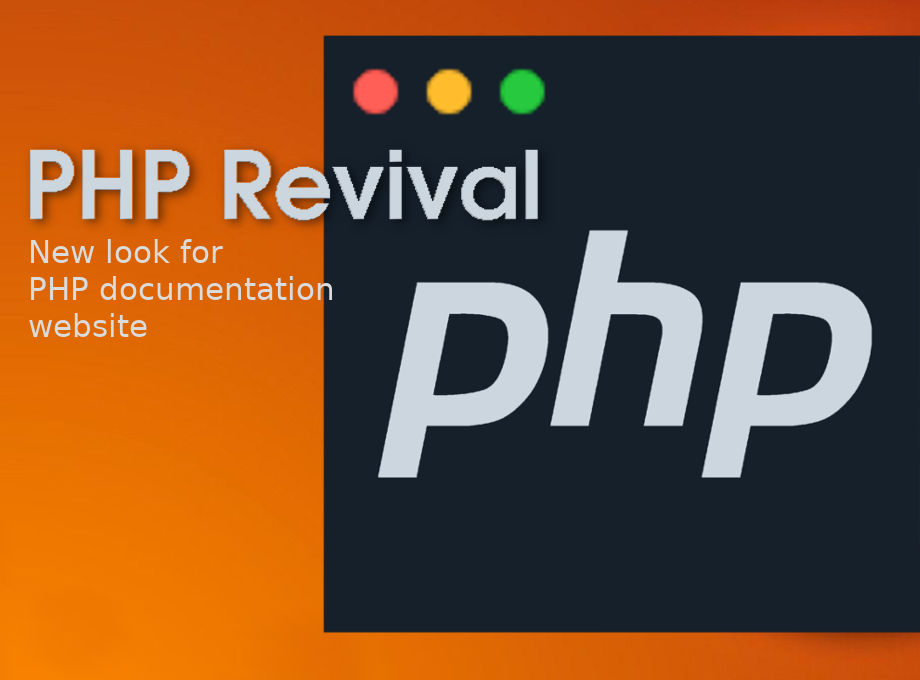
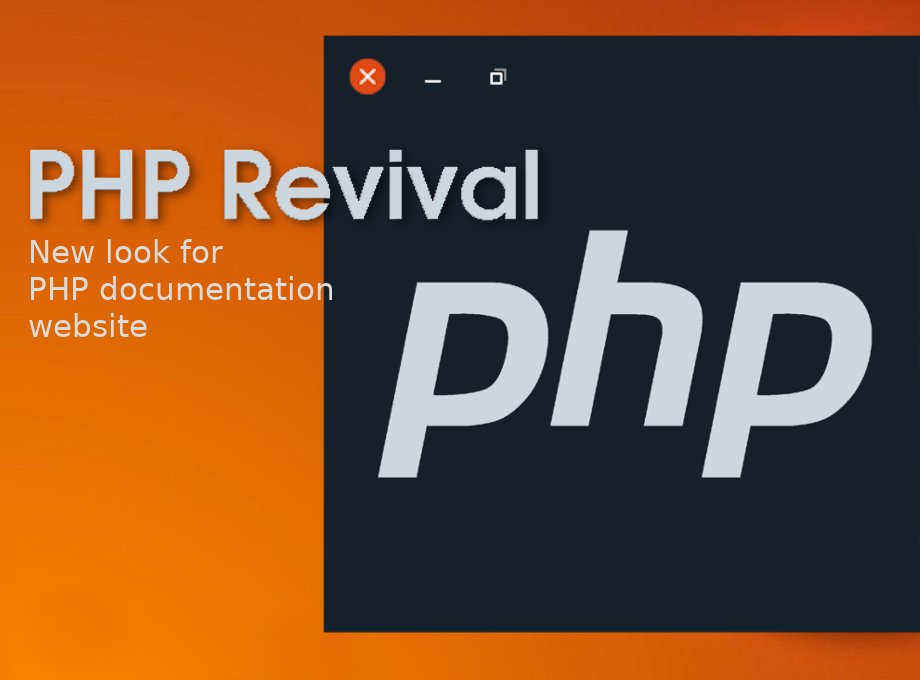
Fixed code examples top corner buttons image

Changed region(s): [[0.3652, 0.0618, 0.6087, 0.1853]]

diff --git a/resources/sass/function-page/code/_php-code.sass b/resources/sass/function-page/code/_php-code.sass
@@ -9,7 +9,7 @@
         display: block
         width: 100px
         height: 30px
[2 lines of base64/hex data omitted]
         background-repeat: no-repeat
         background-position: center
         position: absolute

diff --git a/changelog.md b/changelog.md
@@ -3,6 +3,7 @@
 ## v2.0.7 (2020-04-25)
 
 - Changed extension logo icons
+- Fixed code examples top corner buttons image
 
 ## v2.0.6 (2020-04-25)
 
